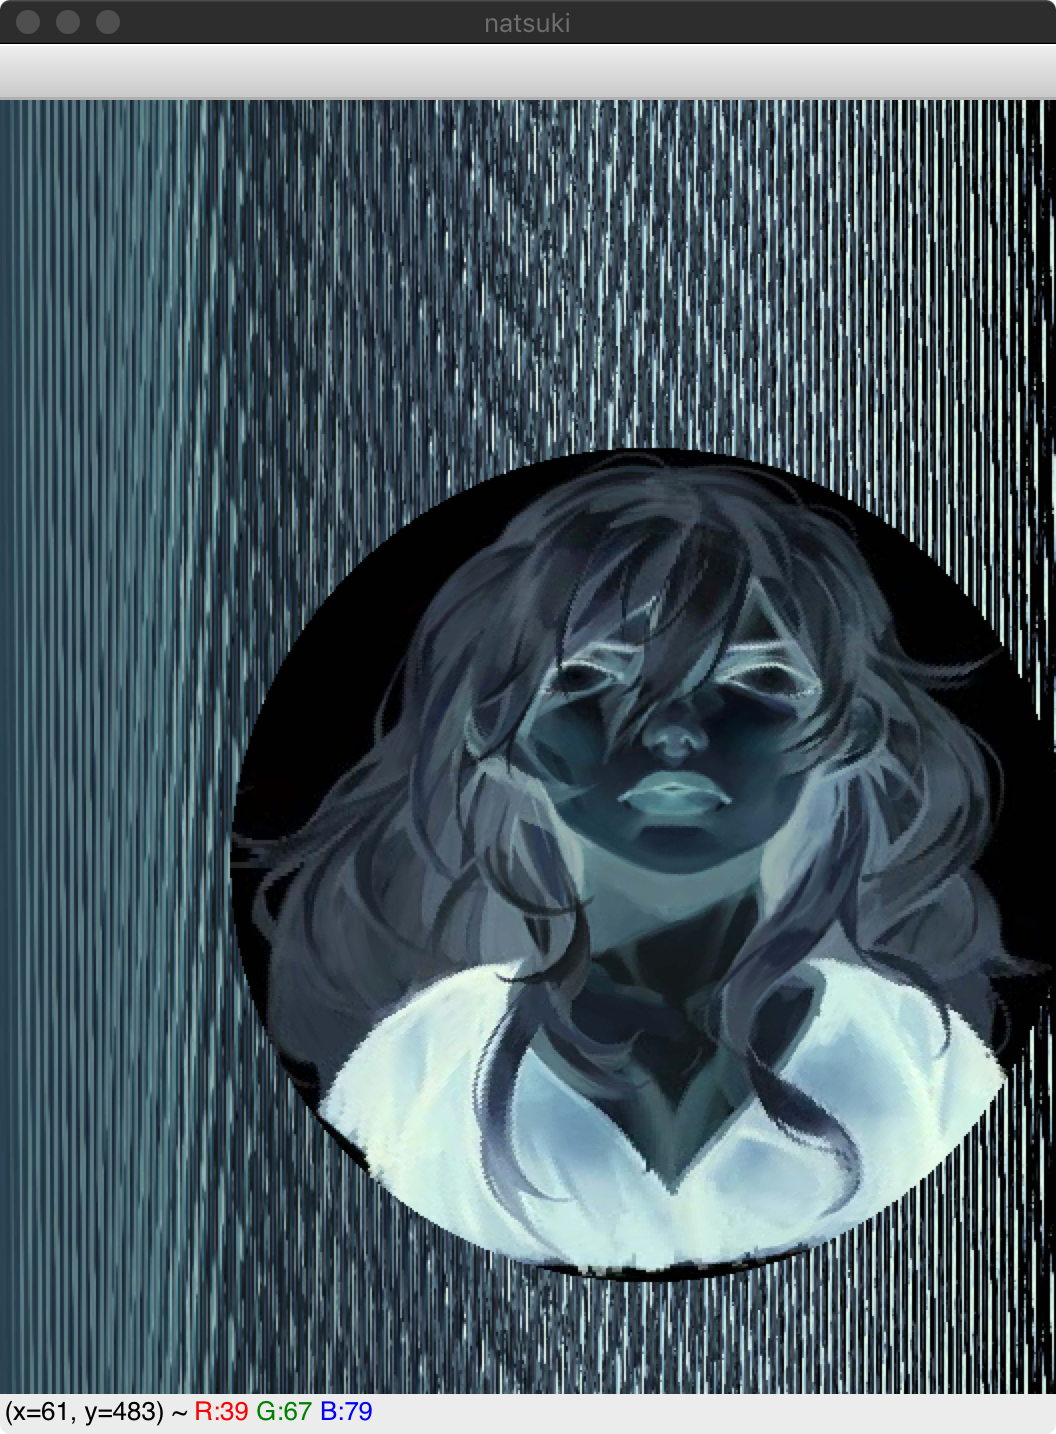
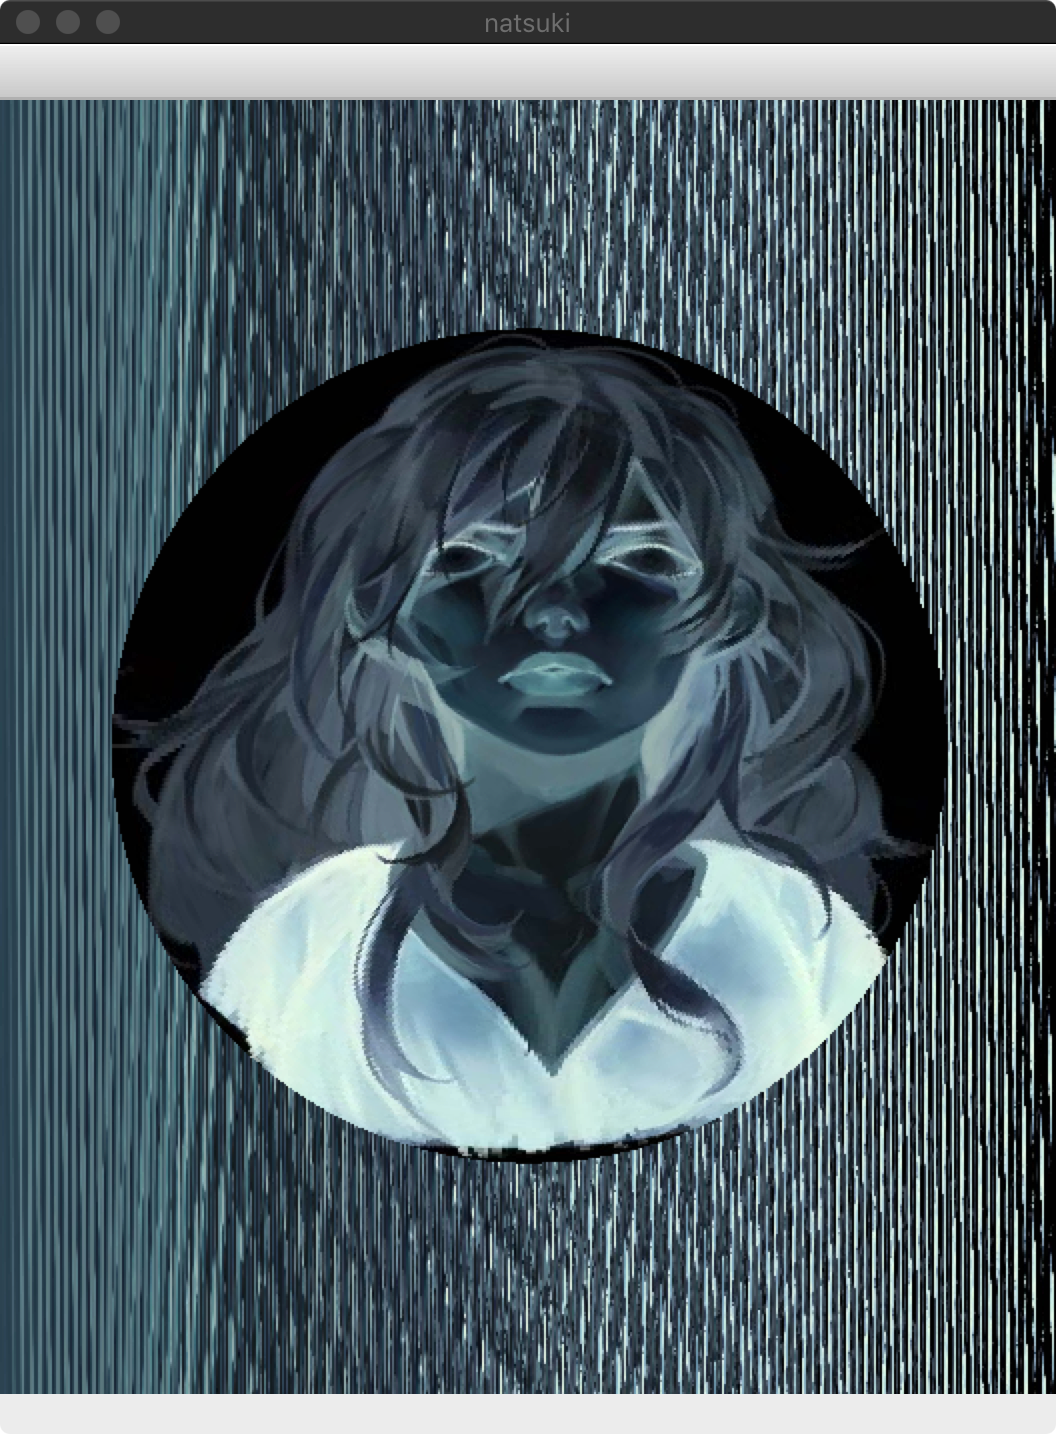
natsuki解析の修正(中心位置の間違いを修正)

diff --git a/src/decode natsuki.py b/src/decode natsuki.py
@@ -18,8 +18,8 @@ def main():
     src = cv2.rotate(src, cv2.ROTATE_90_COUNTERCLOCKWISE)
 
     # 画像を極座標に変換する．
-    center = (src.shape[0]/2, src.shape[1]/2)
-    k = np.sqrt((src.shape[0]/2.0)**2 + (src.shape[1]/2.0)**2)/2.0
+    center = (src.shape[1]/2, src.shape[0]/2)
+    k = np.sqrt((src.shape[1]/2.0)**2 + (src.shape[0]/2.0)**2) * 0.5
     dst = cv2.linearPolar(src, center, k, cv2.WARP_INVERSE_MAP)
 
     # 再度回転させ，顔を見やすくする．
